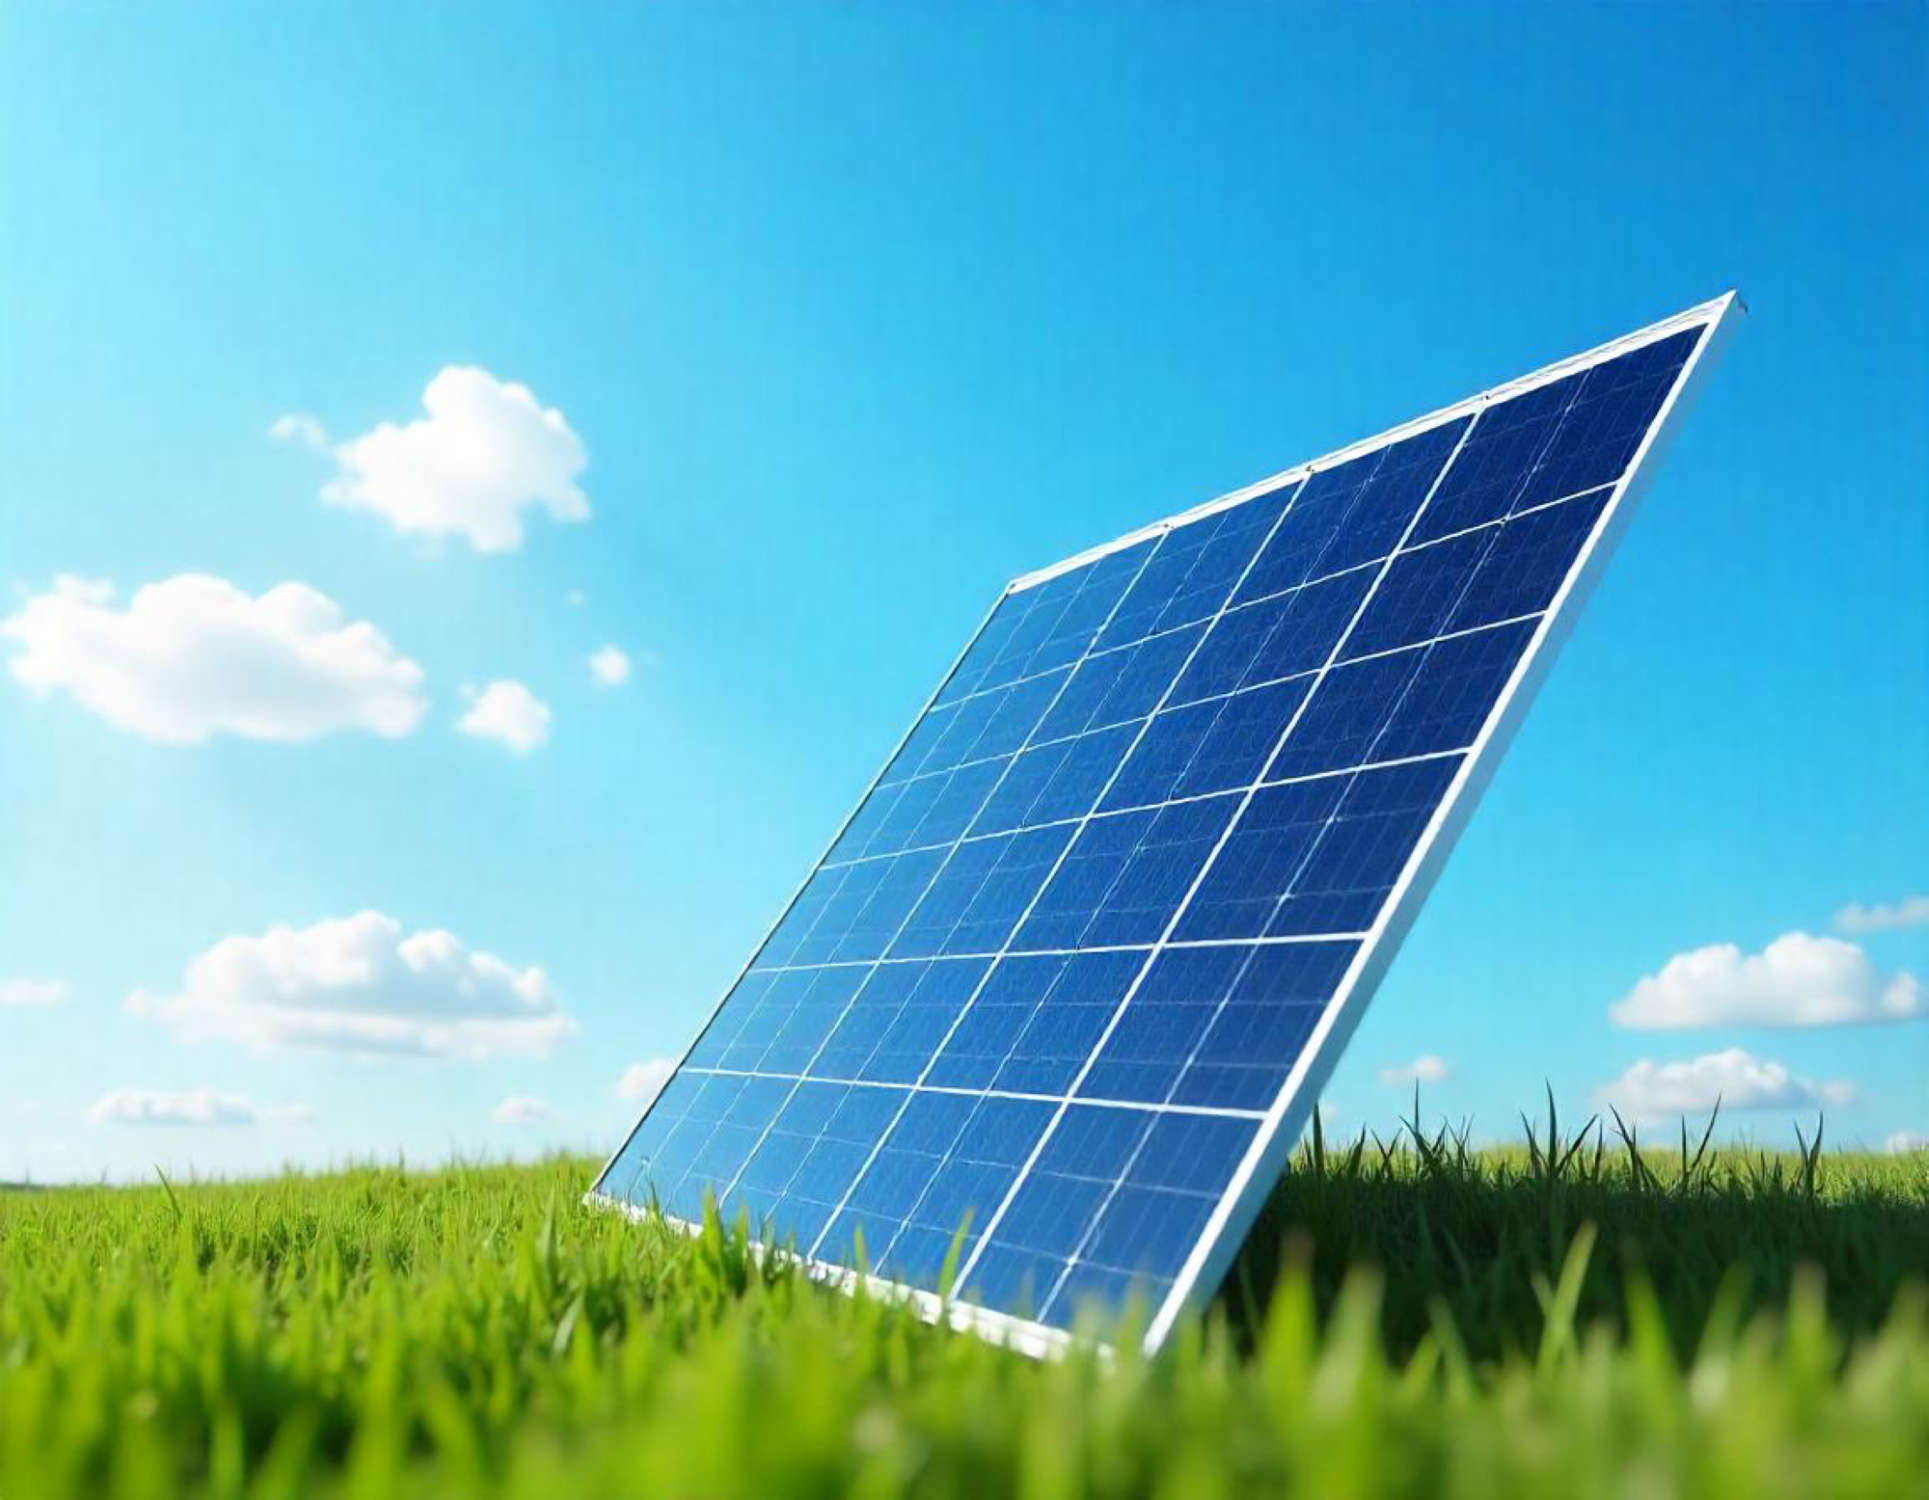
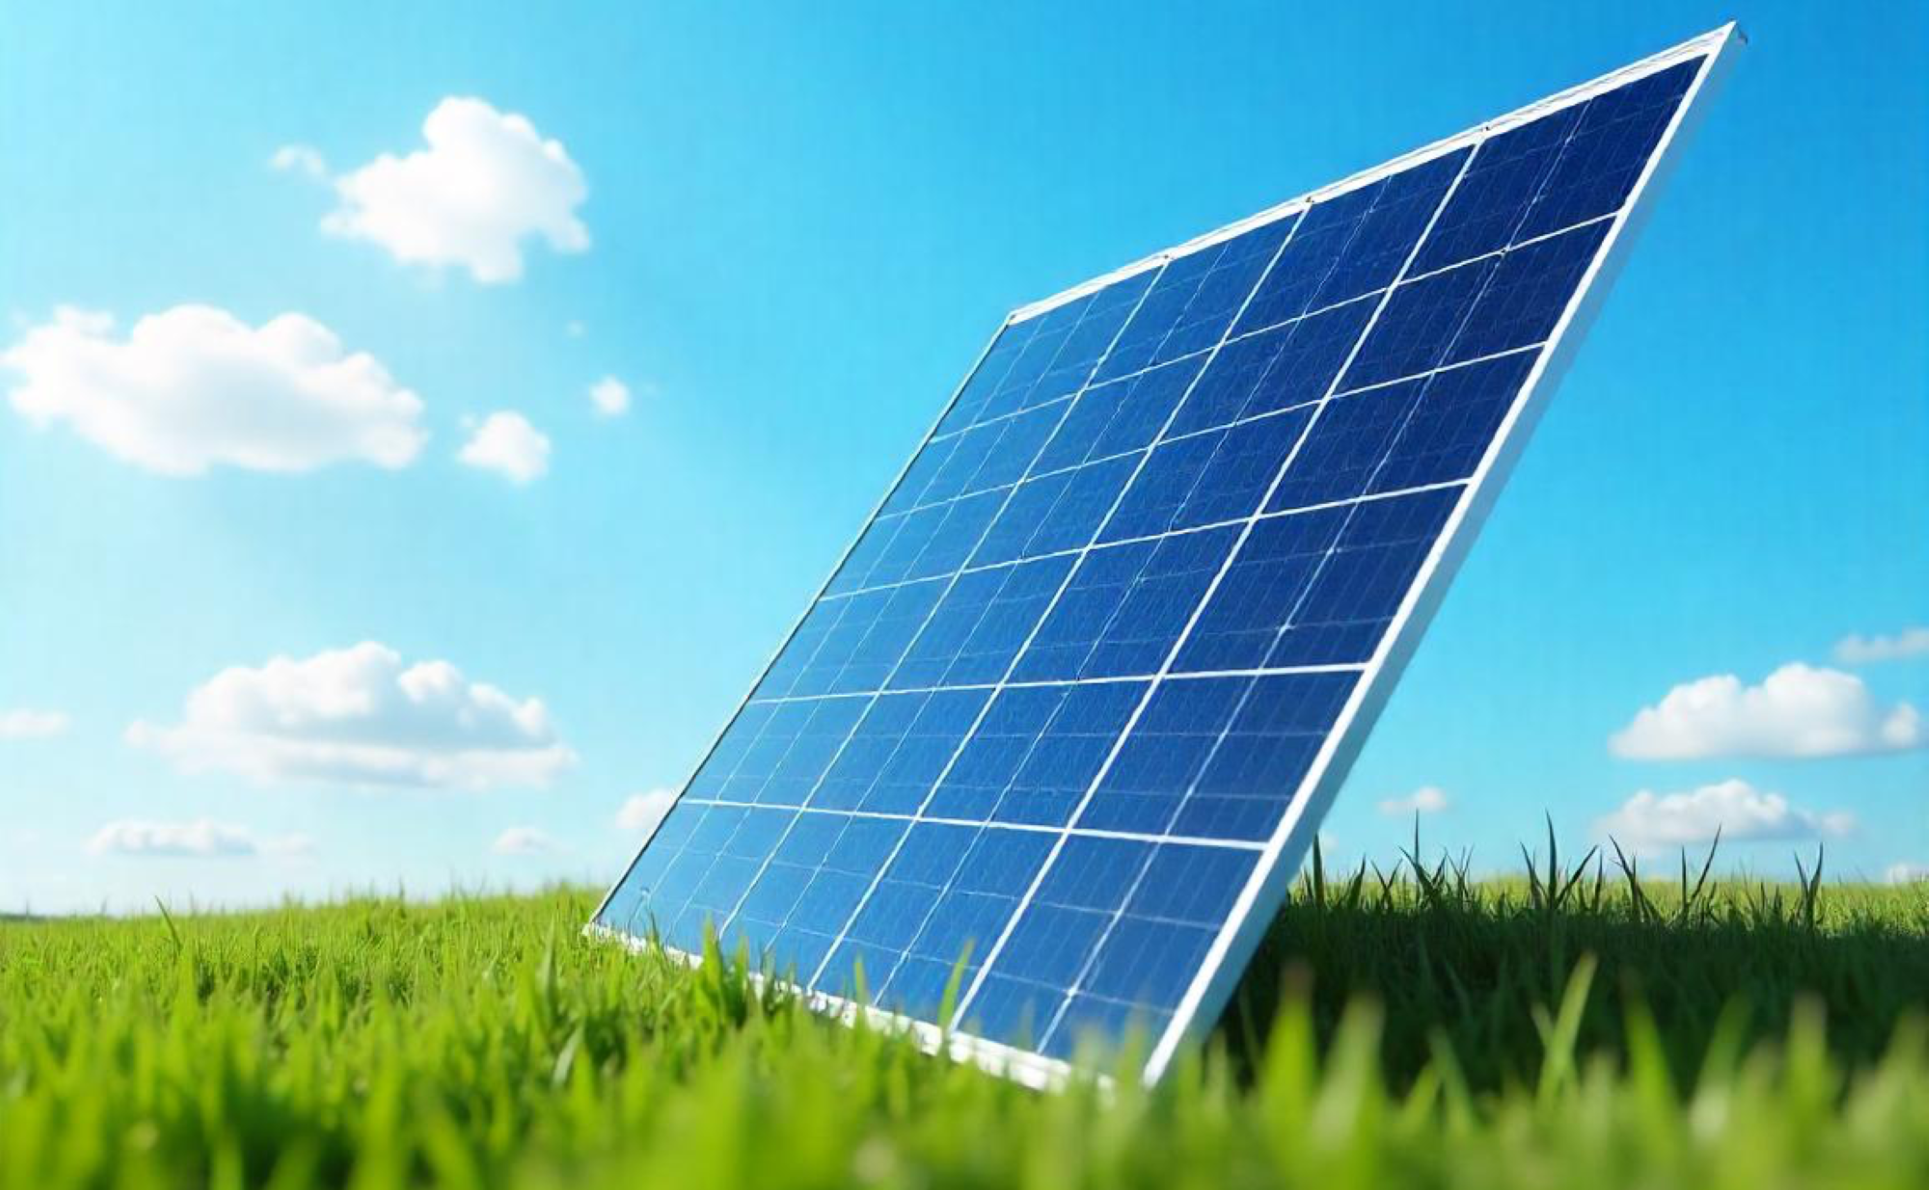
UI Changes

diff --git a/src/components/home/Hero/Index.tsx b/src/components/home/Hero/Index.tsx
@@ -1,17 +1,27 @@
 'use client'
 import React from 'react';
+
 export default function HeroSection() {
   return (
-    <section className="relative h-68 md:h-[30rem] lg:h-[40rem] p-8 bg-cover bg-center lg:bg-[url('/Img/Solar.png')] bg-[url('/Img/Solar1.png')] transition-all duration-1000 ease-in-out">
-      <h1 className="text-2xl lg:ml-16 lg:text-8xl font-bold text-green-900 italic transition-transform duration-700 ease-in-out hover:translate-y-2">
-        Empowering <br/>
-        Renewable <br/>
-        Energy
-      </h1>
-      <p className="mt-4 text-sm lg:text-3xl text-bold text-black-700 transition-opacity duration-700 ease-in-out hover:opacity-80">
-        &quot;Powering the Future <br/>Sustainably with Biomass <br/> Solutions&quot;   
-      </p>
-      <div className="relative z-10 flex flex-row items-center justify-end text-center -translate-y-5">
+    <section 
+      className="relative h-68 md:h-[30rem] lg:h-[40rem] p-8 bg-cover bg-center w-full"
+      style={{ backgroundImage: "url('/Img/newsolar.png')", backgroundSize: "cover", backgroundPosition: "center" }}
+    >
+      {/* Background Overlay */}
+      <div className="absolute inset-0 bg-black/30"></div> 
+      
+      <div className="relative z-10 text-center lg:text-left lg:ml-16">
+        <h1 className="text-2xl lg:text-8xl font-bold text-white italic mix-blend-overlay drop-shadow-lg transition-transform duration-700 ease-in-out hover:translate-y-2">
+          Empowering <br/>
+          Renewable <br/>
+          Energy
+        </h1>
+        <p className="mt-4 text-sm lg:text-3xl font-bold text-white mix-blend-overlay drop-shadow-lg transition-opacity duration-700 ease-in-out hover:opacity-80">
+          &quot;Powering the Future <br/>Sustainably with Biomass <br/> Solutions&quot;   
+        </p>
+      </div>
+
+      <div className="relative z-10 flex justify-end -translate-y-5">
         <div className="bg-white rounded-full mt-12 p-2 lg:p-8 h-8 lg:h-24 shadow-lg transition-transform duration-700 ease-in-out hover:scale-110">
           <p className="text-green-600 text-sm lg:text-xl font-bold">80% Energy Saved</p>
         </div>
